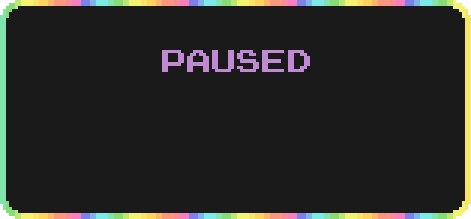
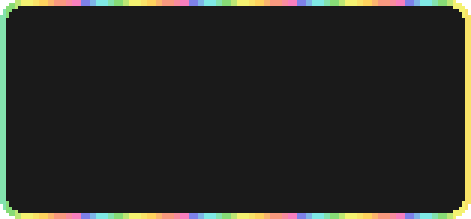
Added lost and won menus

Changed region(s): [[0.327, 0.2192, 0.6837, 0.3288]]

diff --git a/alesk-the-unicorn/core/src/soldater/johannas/view/modal/WonModalMenu.java b/alesk-the-unicorn/core/src/soldater/johannas/view/modal/WonModalMenu.java
@@ -1,0 +1,33 @@
+package soldater.johannas.view.modal;
+
+import soldater.johannas.control.menu.GameMenu;
+import soldater.johannas.view.MenuItem;
+
+import java.util.ArrayList;
+import java.util.List;
+
+public class WonModalMenu extends ModalMenu {
+    public WonModalMenu(GameMenu gameMenu) {
+        super(gameMenu);
+
+        addItems();
+    }
+
+    @Override
+    protected void enter() {
+        switch (selectedItem) {
+            case 2:
+                gameMenu.exitLevel();
+                break;
+        }
+    }
+
+    private void addItems() {
+        List<MenuItem> items = new ArrayList<>();
+        items.add(new MenuItem("menu/next.png", MenuItem.Alignment.LEFT));
+        items.add(new MenuItem("menu/replay.png", MenuItem.Alignment.LEFT));
+        items.add(new MenuItem("menu/exit.png", MenuItem.Alignment.LEFT));
+        setItems(items);
+        setTitle(new MenuItem("menu/won.png"));
+    }
+}

diff --git a/alesk-the-unicorn/core/src/soldater/johannas/view/modal/LostModalMenu.java b/alesk-the-unicorn/core/src/soldater/johannas/view/modal/LostModalMenu.java
@@ -1,0 +1,33 @@
+package soldater.johannas.view.modal;
+
+import soldater.johannas.control.menu.GameMenu;
+import soldater.johannas.view.MenuItem;
+
+import java.util.ArrayList;
+import java.util.List;
+
+public class LostModalMenu extends ModalMenu {
+
+    public LostModalMenu(GameMenu gameMenu) {
+        super(gameMenu);
+
+        addItems();
+    }
+
+    @Override
+    protected void enter() {
+        switch (selectedItem) {
+            case 1:
+                gameMenu.exitLevel();
+                break;
+        }
+    }
+
+    private void addItems() {
+        List<MenuItem> items = new ArrayList<>();
+        items.add(new MenuItem("menu/replay.png", MenuItem.Alignment.LEFT));
+        items.add(new MenuItem("menu/exit.png", MenuItem.Alignment.LEFT));
+        setItems(items);
+        setTitle(new MenuItem("menu/died.png"));
+    }
+}

diff --git a/alesk-the-unicorn/core/src/soldater/johannas/view/UIRenderer.java b/alesk-the-unicorn/core/src/soldater/johannas/view/UIRenderer.java
@@ -9,6 +9,7 @@ import com.badlogic.gdx.graphics.g2d.SpriteBatch;
 import com.badlogic.gdx.utils.Align;
 import soldater.johannas.control.menu.GameMenu;
 import soldater.johannas.model.DrawableGame;
+import soldater.johannas.view.modal.LostModalMenu;
 import soldater.johannas.view.modal.ModalMenu;
 import soldater.johannas.view.modal.PauseModalMenu;
 import util.Colors;
@@ -91,9 +92,9 @@ public class UIRenderer {
             gameMenu.exitLevel();
         }
 
-        if (game.getPlayer().getLife() == 0) {
-            System.out.println("You lost! You didn't eat all the lunchboxes!");
-            gameMenu.exitLevel();
+        if (game.getPlayer().getLife() == 0 && modalMenu == null) {
+            gameMenu.pause();
+            modalMenu = new LostModalMenu(gameMenu);
         }
 
         if (Gdx.input.isKeyJustPressed(Input.Keys.ESCAPE)){

diff --git a/alesk-the-unicorn/core/src/soldater/johannas/view/modal/ModalMenu.java b/alesk-the-unicorn/core/src/soldater/johannas/view/modal/ModalMenu.java
@@ -43,8 +43,8 @@ public abstract class ModalMenu extends AnimatedMenu {
         renderItems(batch);
     }
 
-    protected void setTitle(String text) {
-        title = new MenuItem(text, 2f, Color.WHITE);
+    protected void setTitle(MenuItem title) {
+        this.title = title;
     }
 
     protected void setItems(List<MenuItem> items) {
@@ -80,7 +80,7 @@ public abstract class ModalMenu extends AnimatedMenu {
     private void renderItems(SpriteBatch batch) {
         int x = margin;
 
-        title.draw(batch, Gdx.graphics.getWidth() / 2, modalY + background.getHeight() * 9 / 10);
+        title.draw(batch, Gdx.graphics.getWidth() / 2, modalY + background.getHeight() * 15 / 20);
 
         for (int i = 0; i < items.size(); i++) {
             MenuItem item = items.get(i);

diff --git a/alesk-the-unicorn/core/src/soldater/johannas/view/modal/PauseModalMenu.java b/alesk-the-unicorn/core/src/soldater/johannas/view/modal/PauseModalMenu.java
@@ -1,7 +1,5 @@
 package soldater.johannas.view.modal;
 
-import com.badlogic.gdx.Gdx;
-import com.badlogic.gdx.Input;
 import soldater.johannas.control.menu.GameMenu;
 import soldater.johannas.view.MenuItem;
 
@@ -34,6 +32,6 @@ public class PauseModalMenu extends ModalMenu {
         items.add(new MenuItem("menu/replay.png", MenuItem.Alignment.LEFT));
         items.add(new MenuItem("menu/exit.png", MenuItem.Alignment.LEFT));
         setItems(items);
-        setTitle("Paused");
+        setTitle(new MenuItem("menu/paused.png"));
     }
 }
